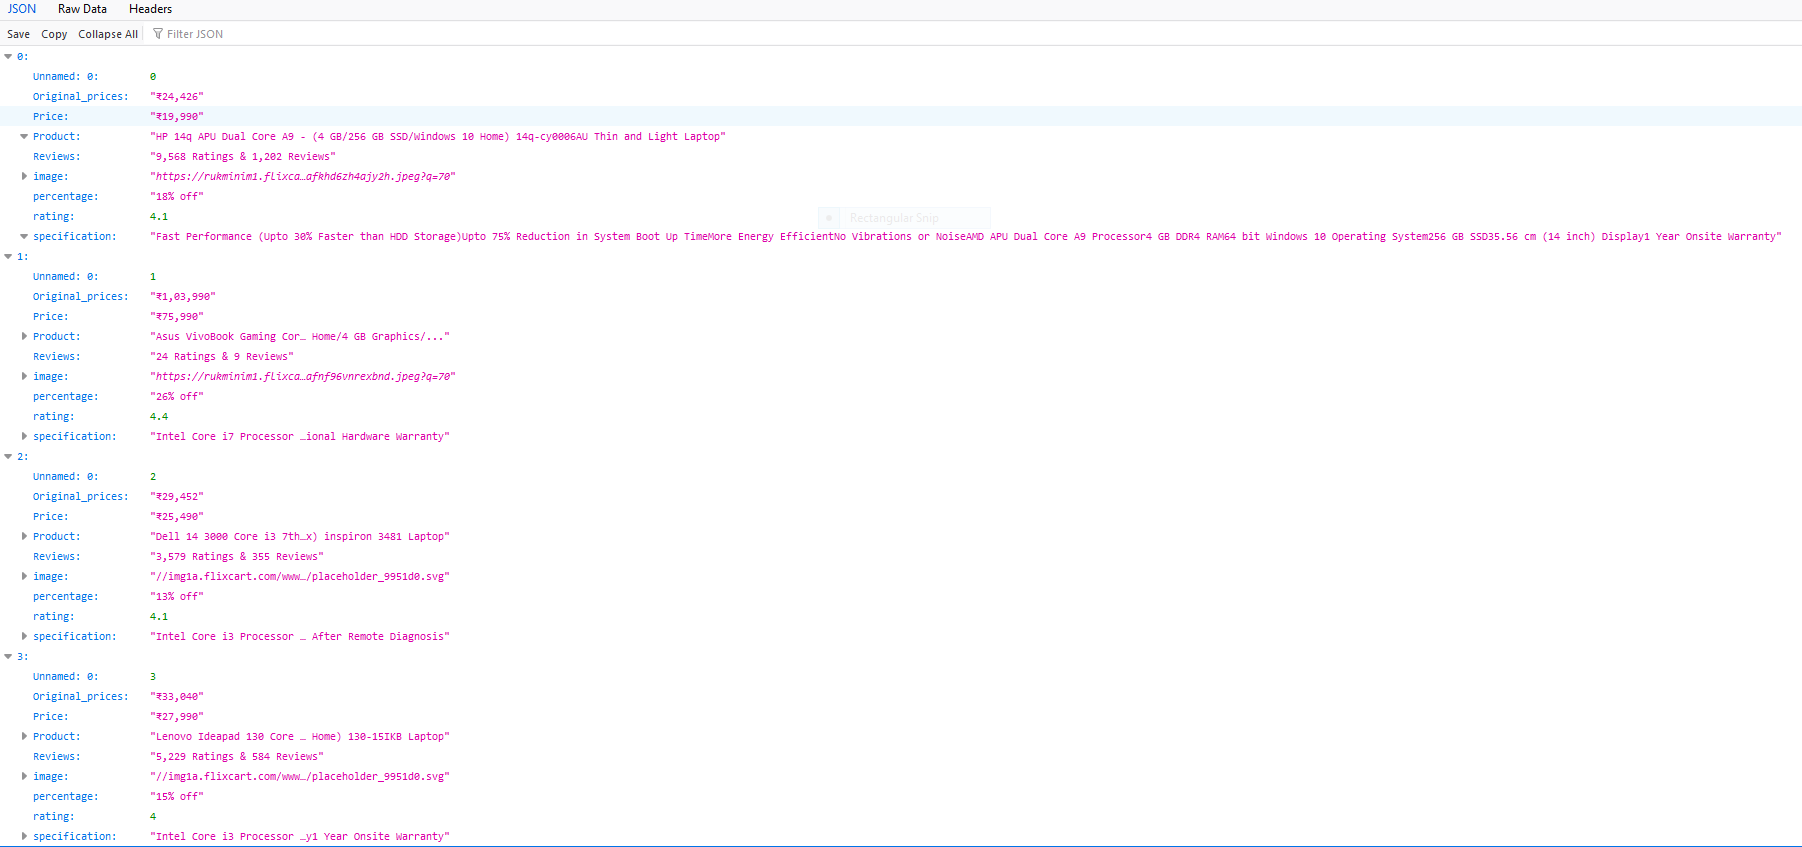
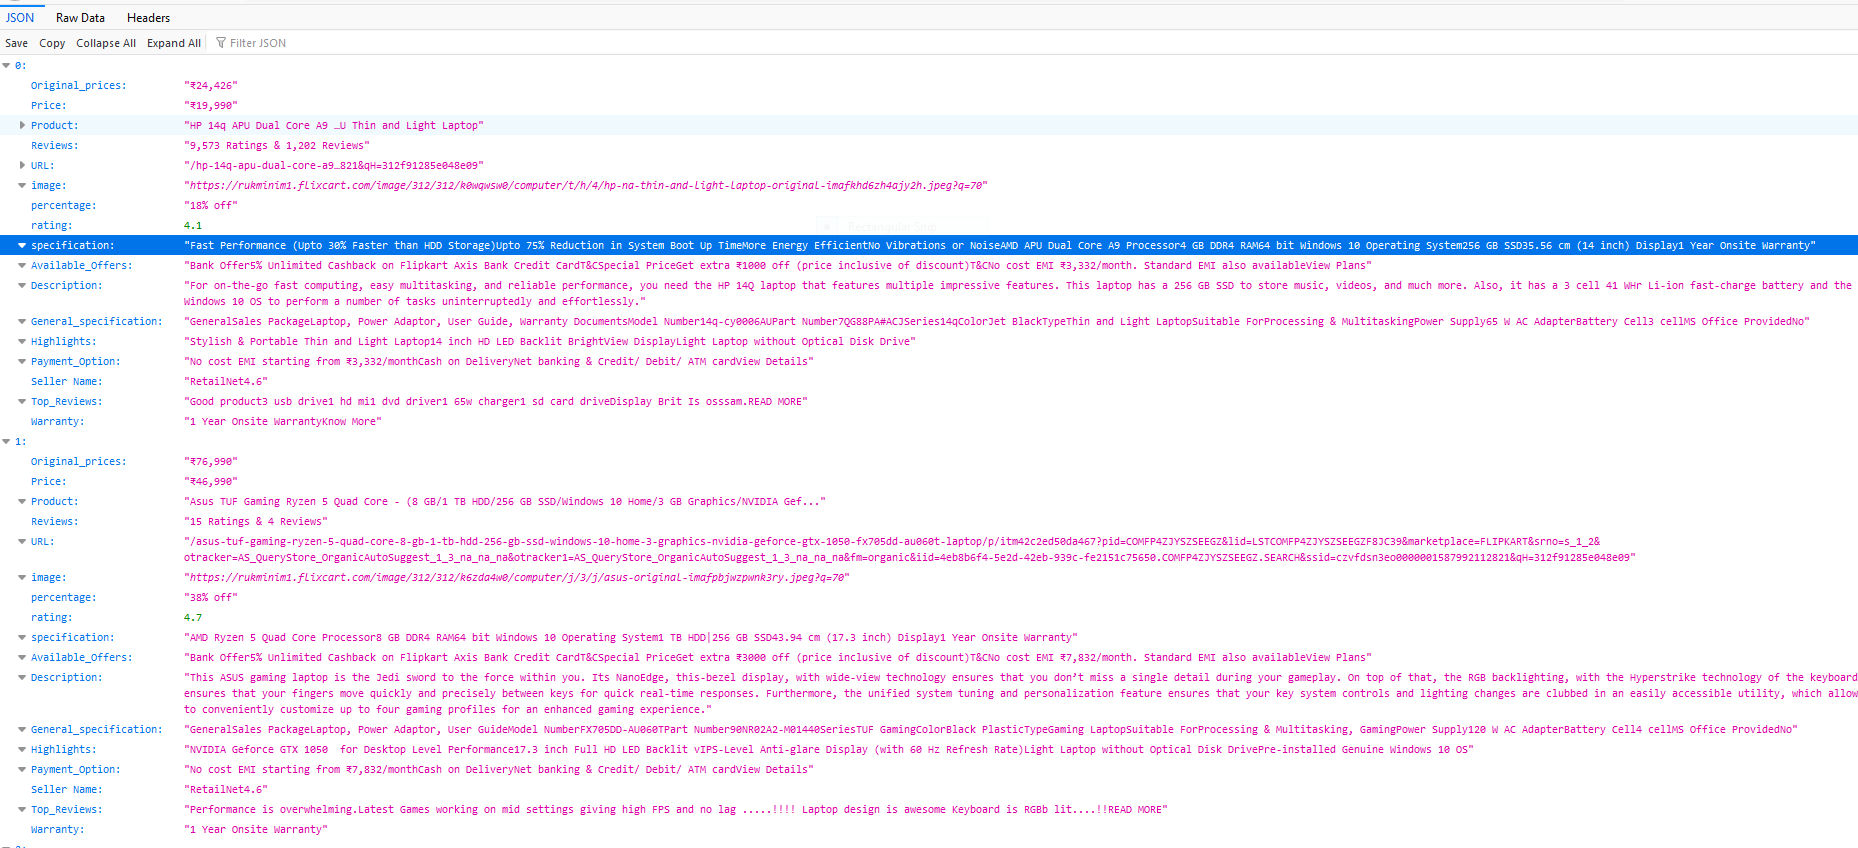
Updated web scrapping code
With more options including a single run  for listing and detail page

diff --git a/check.py b/check.py
@@ -1,0 +1,87 @@
+
+from urllib2 import urlopen
+from bs4 import BeautifulSoup
+import pandas as pd
+import requests
+import urllib2
+from selenium import webdriver
+import time
+
+driver = webdriver.Chrome('chromedriver')
+
+driver.get("https://www.flipkart.com")
+
+
+content = []
+Seller = []
+Description = []
+Highlights = []
+Payment_Option = []
+Warranty = []
+Available_Offers = []
+# Top_Reviews = []
+General_specification = []
+with open('output.csv','r') as csvf:
+	urls = csv.reader(csvf)
+
+	for line in urls:
+		rows = line[4]
+		content.append(rows)
+
+	for i in (content):
+		time.sleep(10)
+		html = driver.page_source
+		soup = BeautifulSoup(html, 'html.parser')
+		url = "https://www.flipkart.com{}".format(i)
+		driver.get(url)
+		
+		results = soup.find_all("div" ,attrs={"class":"_3e7xtJ"})
+
+		
+		for result in results:
+			try:
+				Seller.append(result.find("div" , attrs={"class":"_3HGjxn"}).text.strip())
+			except AttributeError:
+				Seller.append('')
+
+			try:
+				Description.append(result.find("div" , attrs={"class":"_3la3Fn _1zZOAc"}).text.strip())
+			except AttributeError:
+				Description.append('')	
+
+			try:
+				Highlights.append(result.find("div",attrs={"class":"_3WHvuP"}).text.strip())
+			except AttributeError:
+				Highlights.append('')
+			try:
+				Payment_Option.append(result.find("div" ,attrs={"class":"_1-V7IJ"}).text.strip())
+			except AttributeError:
+				Payment_Option.append('')
+			try:
+				Warranty.append(result.find("div" ,attrs={"class":"_3h7IGd"}).text.strip())
+			except AttributeError:
+				Warranty.append('')
+			try:
+				Available_Offers.append(result.find("div" ,attrs={"class":"_3D89xM"}).text.strip())
+			except AttributeError:
+				Available_Offers.append('')
+			# try:
+			# 	Top_Reviews.append(result.find("div" ,attrs={"class":"qwjRop"}).text.strip())
+			# except AttributeError:
+			# 	Top_Reviews.append('')
+			try:
+				General_specification.append(result.find("div",attrs={"class":"_2RngUh"}).text.strip())
+			except AttributeError:
+				General_specification.append('')					
+					
+a = {"Seller Name":Seller,"Description":Description ,"Highlights":Highlights,"Payment_Option":Payment_Option,"Warranty":Warranty,"Available_Offers":Available_Offers,"General_specification":General_specification}
+df = pd.DataFrame.from_dict(a,)
+# print(df)
+df.to_csv("o2.csv",index = False,encoding = 'utf-8')
+
+df1 = pd.read_csv('output.csv')
+df2 = pd.read_csv('outnew1.csv')
+
+out =pd.concat([df1 ,df2] ,axis = 1)
+out.to_csv('outputnew1.csv',index = False,encoding = 'utf-8')
+out.to_json('outputnew1.json',orient = "records")
